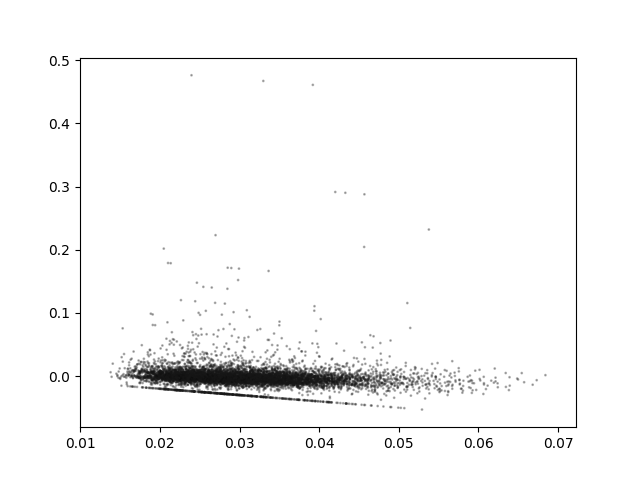
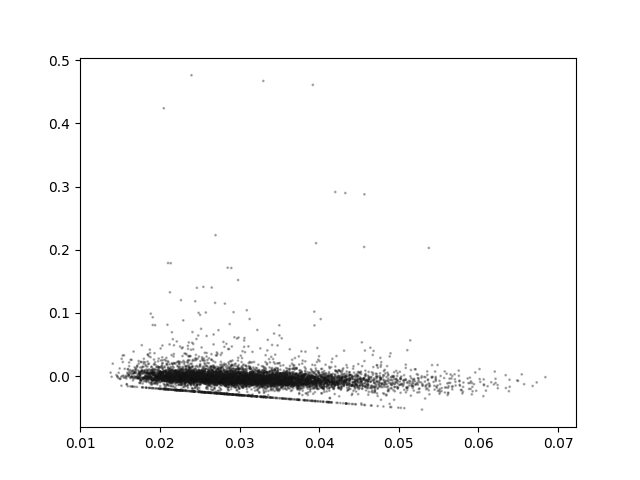
0.1

Changed region(s): [[0.1875, 0.6875, 0.8438, 0.8438]]

diff --git a/models.py b/models.py
@@ -85,17 +85,17 @@ class Estimation:
     Parameters:
     -----------
     claim_type - type of claim to be analyzed
-    model - specification of density of random component, currently Poisson or Gamma
+    model - specification of density of random component
 
     Methods:
     --------
     save_results
     '''
     def __init__(self, model, claim_type):
-        if claim_type not in {'casco', 'rcd'} or model not in {'Poisson', 'NB2', 'Gamma', 'InvGaussian'}:
+        if claim_type not in {'casco', 'rcd'} or model not in {'Poisson', 'NB2', 'Logit', 'Probit', 'C-loglog', 'Gamma', 'InvGaussian'}:
             raise Exception('Model or claim_type provided not in permissible set')
 
-        if model in {'Poisson', 'NB2'}:
+        if model in {'Poisson', 'NB2', 'Logit', 'Probit', 'C-loglog'}:
             dependent = 'freq'
         elif model in {'Gamma', 'InvGaussian'}:
             dependent = 'sev'
@@ -152,6 +152,72 @@ class Estimation:
                 aux_alpha = (np.sum(beta[-1]**(-4) * (np.log(1 + beta[-1] * mu) - aux_jsum)**2 + mu / (beta[-1]**2 * (1 + beta[-1] * mu))))**(-1)
                 res = np.hstack((aux_beta, np.zeros(np.shape(aux_beta)[0])[:, np.newaxis]))
                 res = np.vstack((res, np.concatenate((np.zeros(np.shape(res)[1]-1), [aux_alpha]))))
+                return res
+
+        if model == 'Logit':
+            def grad_func(X, beta):
+                '''
+                Gradient of Log-likelihood for Logit regression model
+                [y_i - m_i * exp(x_i'beta)/(1+exp(x_i'beta)] * x_i
+                '''
+            
+                aux_vec = X[:, [0]] - X[:, [1]] * np.exp(X[:, 2:] @ beta) / (1 + np.exp(X[:, 2:] @ beta))
+                res = (aux_vec.T @ X[:, 2:]).T
+                return res
+    
+            def hess_ninv(X, beta):
+                '''
+                Inverse of negative expected Hessian of Logit loglikelihood
+                inv m_i * exp(x_i'beta)/(1+exp(x_i'beta)**2 * x_i * x_i'
+                '''
+    
+                res = np.linalg.inv(X[:, 2:].T @ (X[:, [1]] * np.exp(X[:, 2:] @ beta) / (1 + np.exp(X[:, 2:] @ beta))**2 * X[:, 2:]))
+                return res
+
+        if model == 'Probit':
+            def grad_func(X, beta):
+                '''
+                Gradient of Log-likelihood for Probit regression model
+                [((y_i - m_i * Phi(x_i'beta))/(Phi(x_i'beta)(1-Phi(x_i'beta)) * phi(x_i'beta)] * x_i
+                '''
+            
+                Phi = st.norm.cdf(X[:, 2:] @ beta)
+                phi = st.norm.pdf(X[:, 2:] @ beta)
+                aux_vec = ((X[:, [0]] - X[:, [1]] * Phi) / (Phi * (1 - Phi))) * phi
+                res = (aux_vec.T @ X[:, 2:]).T
+                return res
+    
+            def hess_ninv(X, beta):
+                '''
+                Inverse of negative expected Hessian of Probit loglikelihood
+                inv m_i * phi(x_i'beta)**2 / (Phi(x_i'beta)(1-Phi(x_i'beta)) * x_i * x_i'
+                '''
+    
+                Phi = st.norm.cdf(X[:, 2:] @ beta)
+                phi = st.norm.pdf(X[:, 2:] @ beta)
+                aux_vec = (X[:, [1]] * phi**2) / (Phi * (1 - Phi))
+                res = np.linalg.inv(X[:, 2:].T @ (aux_vec * X[:, 2:]))
+                return res
+
+        if model == 'C-loglog':
+            def grad_func(X, beta):
+                '''
+                Gradient of Log-likelihood for Complementary log-log regression model
+                {[y_i * (1 - exp(-exp(x_i'beta)))^(-1) - m_i] * exp(x_i'beta)} * x_i
+                '''
+            
+                aux_vec = X[:, [0]] - X[:, [1]] * np.exp(X[:, 2:] @ beta)
+                res = (aux_vec.T @ X[:, 2:]).T
+                return res
+    
+            def hess_ninv(X, beta):
+                '''
+                Inverse of negative Hessian of Poisson loglikelihood
+                inv {m_i * exp(x_i'beta)^2*exp(-exp(x_i'beta))*[1-exp(-exp(x_i'beta))]^(-1)} * x_i * x_i'
+                '''
+    
+                aux_vec = X[:, [1]] * np.exp(X[:, 2:] @ beta)**2 * np.exp(-np.exp(X[:, 2:] @ beta)) * (1 - np.exp(-np.exp(X[:, 2:] @ beta)))**(-1)
+                res = np.linalg.inv(X[:, 2:].T @ (aux_vec * X[:, 2:]))
                 return res
 
         elif model == 'Gamma':
@@ -222,7 +288,10 @@ class Estimation:
             beta = np.vstack((beta, np.array([.5])))
 
         if dependent == 'freq':
-            beta[0] = np.log(X[0, [0]] / X[0, [1]])
+            if model in {'Poisson', 'NB2'}:
+                beta[0] = np.log(X[0, [0]] / X[0, [1]])
+            elif model in {'Logit', 'Probit', 'C-loglog'}:
+                beta[0] = .2
         elif dependent == 'sev':
             beta[0] = 1
 
@@ -287,20 +356,22 @@ class Stdout:
     individual_results_xxx.pkl: deviances and chis
     cell_results_xxx.db: # obs, y_bar, mu_hat, D^L, exposure (freq only)
     overall_results_xxx.db: LL, D, Pearson, Chi^2
+    
+    Standard outpu is different for models w/ Binomial distribution:
+    counts and exposure are aggregated within cells before computation of likelihood and residuals
     '''
 
     def __init__(self, model, claim_type):
         self.model = model
         self.claim_type = claim_type
-        if model in {'Poisson', 'NB2'}:
+        if model in {'Poisson', 'NB2', 'Logit', 'Probit', 'C-loglog'}:
             model_type = 'freq'
         elif model in {'Gamma', 'InvGaussian'}:
             model_type = 'sev'
 
         self.model_type = model_type
         X_dict = file_load(model_type + '_' + claim_type + '_dict.pkl')
-        prefix = 'overall'
-        res = grab_results_db(prefix, model, claim_type)
+        res = grab_results_db('overall', model, claim_type)
         self.beta = res['beta']
         self.var = res['var']
         self.std = res['std']
@@ -384,6 +455,51 @@ class Stdout:
                 Pearson_local = np.sum(Pearson_is**2)
                 return (Pearson_is, Pearson_local)
 
+        elif model in {'Logit', 'Probit', 'C-loglog'}:
+            def LL_func(X, mu, extra_param):
+                '''
+                Log-likelihood: sum_i y_i * ln(mui_i/(1-mu_i)) + m_i * ln(1-mu_i)
+                '''
+
+                y = np.sum(X[:, [0]])
+                m = np.sum(X[:, [1]])
+                res = np.sum(y * np.log(mu / (1 - mu)) + m * np.log(1 - mu))
+                return res
+
+            def deviance(X, mu, extra_param, y_bar):
+                '''
+                deviance^2 = y_i * ln(y_i/mu_i) + (m_i - y_i) * ln((m_i - y_i)/(m_i-mu_i))
+                '''
+
+                y = np.sum(X[:, [0]])
+                m = np.sum(X[:, [1]])
+                if m < mu:  ## check possibility of negative log
+                    pdb.set_trace()
+
+                if y > 0:
+                    dev_local = 2 * (y * np.log(y / mu) + (m - y) * np.log((m - y) / (m - mu)))
+                    dev_y_bar_local = 2 * (y * np.log(y / y_bar) + (m - y) * np.log((m - y) / (m - y_bar)))
+
+                else:
+                    dev_local = 2 * (m * np.log(m / (m - mu)))
+                    dev_y_bar_local = 0
+
+                if y >= mu:
+                    dev_is = dev_local**.5
+                else:
+                    dev_is = - dev_local**.5
+
+                return (dev_is, dev_local, dev_y_bar_local)
+
+            def Pearson(X, mu, extra_param):
+                '''(y_i/m_i - mu_i)^2 / mu_i*(1-mu_i)'''
+
+                y = np.sum(X[:, [0]])
+                m = np.sum(X[:, [1]])
+                Pearson_is = (y / m - mu) / (mu * (1 - mu))**.5
+                Pearson_local = Pearson_is**2
+                return (Pearson_is, Pearson_local)
+
         elif model == 'Gamma':
             def LL_func(X, mu, extra_param):
                 '''
@@ -452,9 +568,19 @@ class Stdout:
         Pearson_stat_sum = 0
         for i, key in enumerate(X_dict.keys()):
             X = X_dict[key]
-            # Except for Poisson, other models have additional parameter in beta vector:
             if model == 'Poisson':
                 mu = np.exp(np.array([1] + [float(j) for j in list(key)]) @ self.beta)
+                extra_param = None
+            elif model == 'Logit':
+                aux_mu = np.exp(np.array([1] + [float(j) for j in list(key)]) @ self.beta)
+                mu = aux_mu / (1 + aux_mu)
+                extra_param = None
+            elif model == 'Probit':
+                aux_mu = np.array([1] + [float(j) for j in list(key)]) @ self.beta
+                mu = st.norm.cdf(aux_mu)
+                extra_param = None
+            elif model == 'C-loglog':
+                mu = 1 - np.exp(- np.exp(np.array([1] + [float(j) for j in list(key)]) @ self.beta))
                 extra_param = None
             else:
                 mu = np.exp(np.array([1] + [float(j) for j in list(key)]) @ self.beta[:-1])
@@ -465,7 +591,10 @@ class Stdout:
                 (dev_is, dev_local, dev_y_bar_local) = deviance(X, mu, extra_param, self.y_bar)
                 (Pearson_is, Pearson_local) = Pearson(X, mu, extra_param)
                 ind_res[key] = np.hstack((dev_is, Pearson_is))
-                cell_res[i, 1] = np.average(X[:, [0]])
+                if model_type == 'freq':
+                    cell_res[i, 1] = np.average(X[:, [0]] * X[:, [1]])
+                elif model_type == 'sev':
+                    cell_res[i, 1] = np.average(X[:, [0]])
             else:
                 ind_res[key] = np.array([])
                 cell_res[i, 1] = 0
@@ -517,7 +646,8 @@ class Stdout:
 
 
 if __name__ == '__main__':
-    for model in ('Poisson', 'Gamma', 'InvGaussian', 'NB2'):
+#    for model in ('Poisson', 'Gamma', 'InvGaussian', 'NB2'):
+    for model in ('Logit', 'Probit', 'C-loglog'):
         for claim_type in ('casco', 'rcd'):
 #            x = Estimation(model, claim_type)
 #            x.save_estimation_results()

diff --git a/diagnostics.py b/diagnostics.py
@@ -33,7 +33,7 @@ class Diagnostics:
     def __init__(self, model, claim_type):
         self.model = model
         self.claim_type = claim_type
-        if self.model in {'Poisson', 'NB2'}:
+        if self.model in {'Poisson', 'NB2', 'Logit', 'Probit', 'C-loglog'}:
             self.model_type = 'freq'
         elif self.model in {'Gamma', 'InvGaussian'}:
             self.model_type = 'sev'
@@ -54,7 +54,8 @@ class Diagnostics:
 
 
 if __name__ == '__main__':
-    for model in ('Poisson', 'NB2', 'Gamma', 'InvGaussian'):
+#    for model in ('Poisson', 'NB2', 'Gamma', 'InvGaussian'):
+    for model in ('Logit', 'Probit', 'C-loglog'):
         for claim_type in ('casco', 'rcd'):
             x = Diagnostics(model, claim_type)
             x.plot01()
